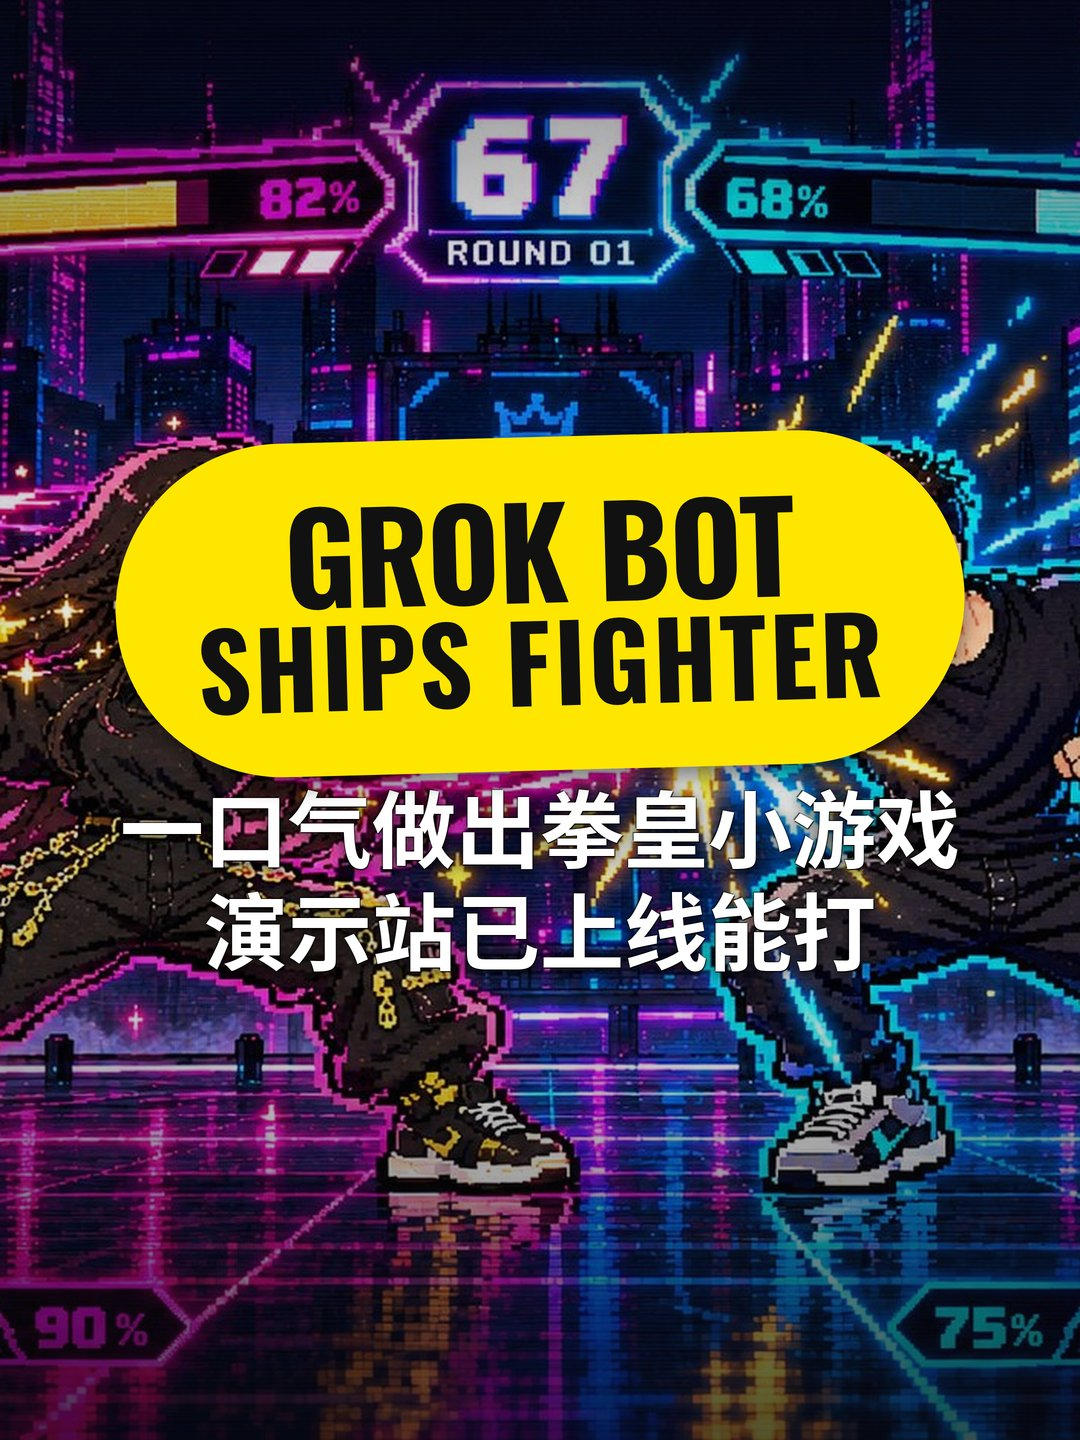
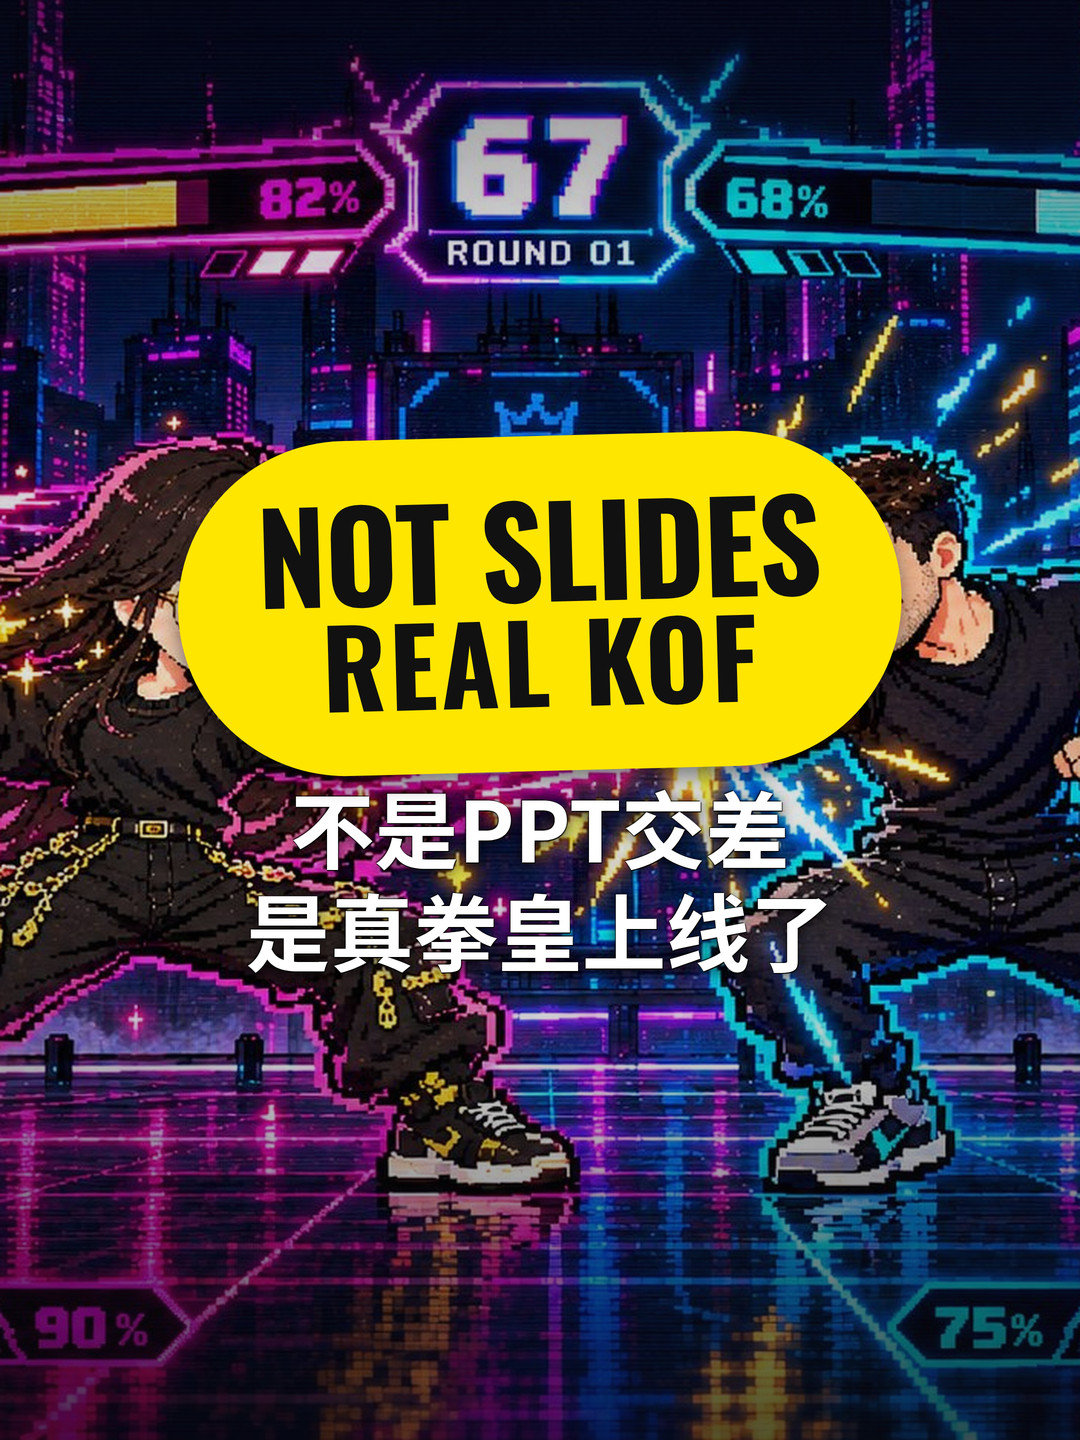
tvp: remake punchier covers for subvocal-glasses + potato-vs-tibo
A yellow-capsule + B hypebeast (no right sticker); Douyin 1080x1440 JPG;
align PUBLISH/copy page/catalog title hooks with cover copy.

Changed region(s): [[0.0917, 0.2812, 0.9167, 0.6875]]

diff --git a/public/tvp/subvocal-glasses/index.html b/public/tvp/subvocal-glasses/index.html
@@ -3,7 +3,7 @@
 <head>
 <meta charset="utf-8">
 <meta name="viewport" content="width=device-width,initial-scale=1">
-<title>Subvocal Glasses：默念眼镜预购亮相 · 文案</title>
+<title>Subvocal Glasses：闭嘴默念，每分钟两百词 · 文案</title>
 <style>
 :root { --bg:#0b0b0b; --card:#141414; --ink:#eee; --muted:#9ca3af; --accent:#7dd3fc; --line:#262626; --ok:#4ade80; --btn:#1e293b; }
 * { box-sizing: border-box; }
@@ -28,7 +28,7 @@ main { max-width:720px; margin:0 auto; padding:16px 18px 48px; display:flex; fle
 <body>
 <header>
   <a class="back" href="../">← 选题库</a>
-  <h1>Subvocal Glasses：默念眼镜预购亮相</h1>
+  <h1>Subvocal Glasses：闭嘴默念，每分钟两百词</h1>
   <p>2026-11-02 · YC F26 · RF无摄像头 · 官方称200+WPM · 预购非铺货 · 点「复制」直接粘贴发帖</p>
 </header>
 <div class="covers">
@@ -42,7 +42,7 @@ main { max-width:720px; margin:0 auto; padding:16px 18px 48px; display:flex; fle
     <h2>A · 主推版</h2>
     <button class="btn" type="button" data-target="cap-A" onclick="copyText(this)">复制</button>
   </div>
-  <pre class="pre" id="cap-A">闭嘴默念，就能打成文字——硅谷创业公司 Subvocal 亮相了一副默念眼镜，不用当众对着电脑说话。
+  <pre class="pre" id="cap-A">闭嘴默念，每分钟两百词——硅谷创业公司 Subvocal 亮相了一副默念眼镜，不用当众对着电脑说话。
 
 联合创始人 Aarush Yadav、Arnav Kumar 来自佐治亚理工，进入 YC 秋季批次；官方称原型解码超过每分钟二百词，并融到大约一百三十万美元（YC 与 Afore 等）。机制很直白：不用摄像头，靠射频感知面部细微动作，再实时解码成文字；官网强调不是读心，只解你故意默念的嘴型。
 
@@ -57,7 +57,7 @@ main { max-width:720px; margin:0 auto; padding:16px 18px 48px; display:flex; fle
     <h2>B · 一句话短版</h2>
     <button class="btn" type="button" data-target="cap-B" onclick="copyText(this)">复制</button>
   </div>
-  <pre class="pre" id="cap-B">Subvocal 默念眼镜：闭嘴嘴型→文字；官方称 200+ WPM；RF 不用摄像头；融约 $1.3M（YC/Afore）；$199 可退订金→早鸟 $499；估 Q1 2027 发货；美区预购——开发硬件，非铺货成品。
+  <pre class="pre" id="cap-B">不说话也能打字？YC 押了这副 Subvocal 默念眼镜：闭嘴嘴型→文字；官方称 200+ WPM；RF 不用摄像头；融约 $1.3M（YC/Afore）；$199 可退订金→早鸟 $499；估 Q1 2027 发货；美区预购——开发硬件，非铺货成品。
 
 #Subvocal #默念眼镜 #科技快播 #老李的AI江湖</pre>
 </section>

diff --git a/public/tvp/potato-vs-tibo/index.html b/public/tvp/potato-vs-tibo/index.html
@@ -3,7 +3,7 @@
 <head>
 <meta charset="utf-8">
 <meta name="viewport" content="width=device-width,initial-scale=1">
-<title>土豆女神 vs Tibo：Grok Bot 做出的可玩拳皇小游戏 · 文案</title>
+<title>土豆女神 vs Tibo：不是PPT交差，是真拳皇上线了 · 文案</title>
 <style>
 :root { --bg:#0b0b0b; --card:#141414; --ink:#eee; --muted:#9ca3af; --accent:#7dd3fc; --line:#262626; --ok:#4ade80; --btn:#1e293b; }
 * { box-sizing: border-box; }
@@ -28,7 +28,7 @@ main { max-width:720px; margin:0 auto; padding:16px 18px 48px; display:flex; fle
 <body>
 <header>
   <a class="back" href="../">← 选题库</a>
-  <h1>土豆女神 vs Tibo：Grok Bot 做出的可玩拳皇小游戏</h1>
+  <h1>土豆女神 vs Tibo：不是PPT交差，是真拳皇上线了</h1>
   <p>2026-11-02 · Kin 发帖 + 演示站可玩 · 点「复制」直接粘贴发帖</p>
 </header>
 <div class="covers">
@@ -42,7 +42,7 @@ main { max-width:720px; margin:0 auto; padding:16px 18px 48px; display:flex; fle
     <h2>A · 主推版</h2>
     <button class="btn" type="button" data-target="cap-A" onclick="copyText(this)">复制</button>
   </div>
-  <pre class="pre" id="cap-A">有人用 Grok Bot 一口气做出可玩的拳皇小游戏，还直接挂上线——不是交差做几页幻灯片，是真能上手打。
+  <pre class="pre" id="cap-A">不是 PPT 交差，是真拳皇上线了——有人用 Grok Bot 一口气做出可玩的拳皇小游戏，还直接挂上线。
 
 作者 Kin（@KinGao476942）发帖说：用 Grok Bot 做了「土豆女神 @poteto 对战 Tibo @thsottiaux」的拳皇小游戏，并公开演示站 https://potato-vs-tibo.vercel.app 。页面底栏写清操作：A/D 移动，W/空格跳，J 轻攻，K 重攻，U 必杀（半管能量），I 大招（满管），S/L 防御，P/Esc 暂停，Enter 开始/再来一局。
 
@@ -57,7 +57,7 @@ main { max-width:720px; margin:0 auto; padding:16px 18px 48px; display:flex; fle
     <h2>B · 一句话短版</h2>
     <button class="btn" type="button" data-target="cap-B" onclick="copyText(this)">复制</button>
   </div>
-  <pre class="pre" id="cap-B">Kin 用 Grok Bot 一口气做出土豆女神 vs Tibo 拳皇小游戏并挂上线；浏览器可玩，移动/跳/轻攻重攻/必杀大招都有——不是幻灯片，是真能打。
+  <pre class="pre" id="cap-B">Grok Bot 搓出拳皇，土豆女神暴打 Tibo——Kin 做出可玩网页拳皇并挂上线；浏览器打开就能痛打一局。
 
 #GrokBot #拳皇小游戏 #科技快播 #老李的AI江湖</pre>
 </section>

diff --git a/public/tvp/subvocal-glasses/PUBLISH.md b/public/tvp/subvocal-glasses/PUBLISH.md
@@ -2,7 +2,7 @@
 
 ## A · 主推版
 
-闭嘴默念，就能打成文字——硅谷创业公司 Subvocal 亮相了一副默念眼镜，不用当众对着电脑说话。
+闭嘴默念，每分钟两百词——硅谷创业公司 Subvocal 亮相了一副默念眼镜，不用当众对着电脑说话。
 
 联合创始人 Aarush Yadav、Arnav Kumar 来自佐治亚理工，进入 YC 秋季批次；官方称原型解码超过每分钟二百词，并融到大约一百三十万美元（YC 与 Afore 等）。机制很直白：不用摄像头，靠射频感知面部细微动作，再实时解码成文字；官网强调不是读心，只解你故意默念的嘴型。
 
@@ -14,7 +14,7 @@
 
 ## B · 一句话短版
 
-Subvocal 默念眼镜：闭嘴嘴型→文字；官方称 200+ WPM；RF 不用摄像头；融约 $1.3M（YC/Afore）；$199 可退订金→早鸟 $499；估 Q1 2027 发货；美区预购——开发硬件，非铺货成品。
+不说话也能打字？YC 押了这副 Subvocal 默念眼镜：闭嘴嘴型→文字；官方称 200+ WPM；RF 不用摄像头；融约 $1.3M（YC/Afore）；$199 可退订金→早鸟 $499；估 Q1 2027 发货；美区预购——开发硬件，非铺货成品。
 
 #Subvocal #默念眼镜 #科技快播 #老李的AI江湖
 

diff --git a/public/tvp/potato-vs-tibo/PUBLISH.md b/public/tvp/potato-vs-tibo/PUBLISH.md
@@ -2,7 +2,7 @@
 
 ## A · 主推版
 
-有人用 Grok Bot 一口气做出可玩的拳皇小游戏，还直接挂上线——不是交差做几页幻灯片，是真能上手打。
+不是 PPT 交差，是真拳皇上线了——有人用 Grok Bot 一口气做出可玩的拳皇小游戏，还直接挂上线。
 
 作者 Kin（@KinGao476942）发帖说：用 Grok Bot 做了「土豆女神 @poteto 对战 Tibo @thsottiaux」的拳皇小游戏，并公开演示站 https://potato-vs-tibo.vercel.app 。页面底栏写清操作：A/D 移动，W/空格跳，J 轻攻，K 重攻，U 必杀（半管能量），I 大招（满管），S/L 防御，P/Esc 暂停，Enter 开始/再来一局。
 
@@ -14,7 +14,7 @@
 
 ## B · 一句话短版
 
-Kin 用 Grok Bot 一口气做出土豆女神 vs Tibo 拳皇小游戏并挂上线；浏览器可玩，移动/跳/轻攻重攻/必杀大招都有——不是幻灯片，是真能打。
+Grok Bot 搓出拳皇，土豆女神暴打 Tibo——Kin 做出可玩网页拳皇并挂上线；浏览器打开就能痛打一局。
 
 #GrokBot #拳皇小游戏 #科技快播 #老李的AI江湖
 
